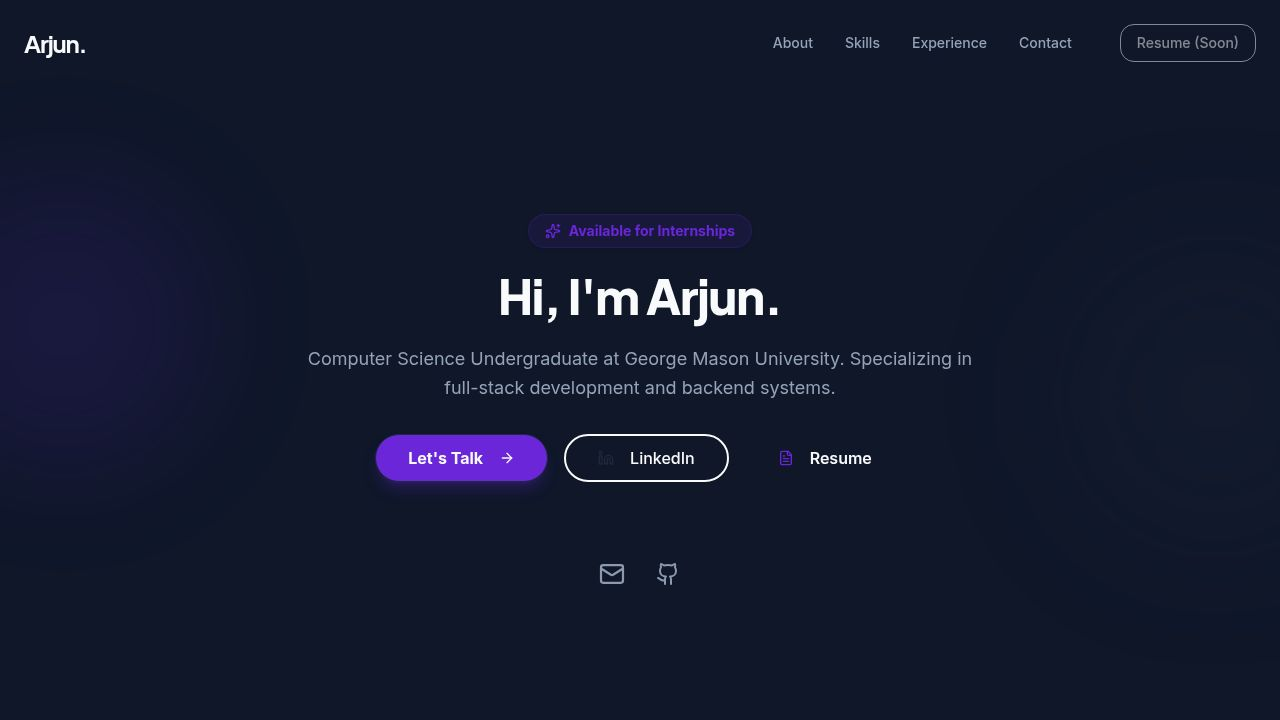
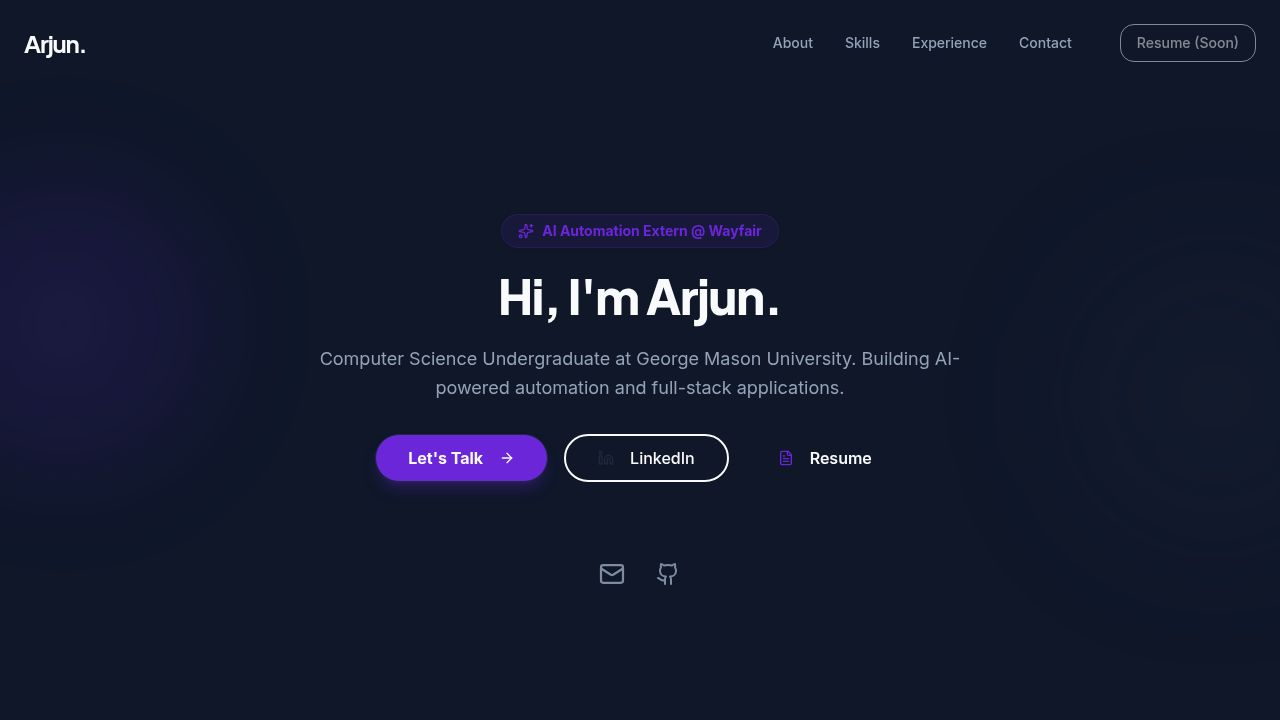
Update portfolio with new resume information and enhanced project details
Update client-side components to reflect new resume details, including experience, skills, and projects. Added GitHub link to contact section and updated hero and about sections.

Replit-Commit-Author: Agent
Replit-Commit-Session-Id: 9fe26823-d4da-4c3f-8fee-0e714eb8cfe9
Replit-Commit-Checkpoint-Type: full_checkpoint
Replit-Commit-Event-Id: a8f7fe2c-b568-427f-ad0e-911fc0c28663
Replit-Commit-Screenshot-Url: https://storage.googleapis.com/screenshot-production-us-central1/133d2532-96fa-4d6e-b4c1-6935cb228fff/9fe26823-d4da-4c3f-8fee-0e714eb8cfe9/JFeoRPG
Replit-Helium-Checkpoint-Created: true

Changed region(s): [[0.25, 0.4889, 0.75, 0.55], [0.4062, 0.3056, 0.5938, 0.3361]]

diff --git a/client/src/components/sections/experience.tsx b/client/src/components/sections/experience.tsx
@@ -2,6 +2,33 @@ import { motion } from "framer-motion";
 import { Card, CardContent, CardHeader, CardTitle } from "@/components/ui/card";
 import { Calendar, MapPin } from "lucide-react";
 
+const experiences = [
+  {
+    title: "AI Automation & Analytics Extern",
+    company: "Wayfair",
+    location: "Remote",
+    period: "Jan 2026 – Present",
+    highlights: [
+      "Engineered Python-based automation pipelines to analyze market and competitor data, reducing manual research effort by 30%.",
+      "Implemented structured prompt reasoning techniques to decrease LLM response latency by 25%.",
+      "Built interactive dashboards to visualize AI-generated insights, expanding vendor risk data coverage by 65%.",
+      "Consolidated multi-source datasets into unified analytics pipelines, reducing reporting turnaround time by 25%.",
+      "Strengthened system reliability by implementing API validation and error handling, mitigating 11 potential vulnerabilities."
+    ]
+  },
+  {
+    title: "Academic Intern",
+    company: "VIT Chennai",
+    location: "Chennai, India",
+    period: "Jun 2022 – Dec 2023",
+    highlights: [
+      "Developed and tested 30+ Java programs applying object-oriented principles and clean coding practices.",
+      "Solved 20+ data structure and algorithm problems involving arrays, strings, hash maps, and recursion.",
+      "Optimized and debugged programs to improve correctness, performance, and maintainability under academic deadlines."
+    ]
+  }
+];
+
 export function Experience() {
   return (
     <section id="experience" className="py-24 bg-muted/30">
@@ -14,48 +41,45 @@ export function Experience() {
           className="text-center mb-16"
         >
           <h2 className="text-3xl font-heading font-bold mb-4">Experience</h2>
-          <p className="text-muted-foreground">My professional and academic journey so far.</p>
+          <p className="text-muted-foreground">My professional journey so far.</p>
         </motion.div>
 
-        <div className="max-w-3xl mx-auto">
-          <motion.div
-            initial={{ opacity: 0, x: -20 }}
-            whileInView={{ opacity: 1, x: 0 }}
-            viewport={{ once: true }}
-            transition={{ duration: 0.5 }}
-          >
-            <Card className="border-l-4 border-l-primary shadow-sm">
-              <CardHeader>
-                <div className="flex flex-col md:flex-row md:items-center justify-between gap-2 mb-2">
-                  <CardTitle className="text-xl font-bold text-primary">Academic Intern</CardTitle>
-                  <div className="flex items-center text-sm text-muted-foreground bg-background px-3 py-1 rounded-full border border-border w-fit">
-                    <Calendar className="w-3 h-3 mr-2" />
-                    <span>Jun 2022 – Dec 2023</span>
+        <div className="max-w-4xl mx-auto space-y-8">
+          {experiences.map((exp, index) => (
+            <motion.div
+              key={exp.title}
+              initial={{ opacity: 0, x: -20 }}
+              whileInView={{ opacity: 1, x: 0 }}
+              viewport={{ once: true }}
+              transition={{ duration: 0.5, delay: index * 0.1 }}
+            >
+              <Card className="border-l-4 border-l-primary shadow-sm">
+                <CardHeader>
+                  <div className="flex flex-col md:flex-row md:items-center justify-between gap-2 mb-2">
+                    <CardTitle className="text-xl font-bold text-primary">{exp.title}</CardTitle>
+                    <div className="flex items-center text-sm text-muted-foreground bg-background px-3 py-1 rounded-full border border-border w-fit">
+                      <Calendar className="w-3 h-3 mr-2" />
+                      <span>{exp.period}</span>
+                    </div>
                   </div>
-                </div>
-                <div className="flex items-center text-muted-foreground font-medium">
-                  <span className="text-foreground">VIT Chennai</span>
-                  <span className="mx-2">•</span>
-                  <span className="flex items-center text-sm">
-                    <MapPin className="w-3 h-3 mr-1" /> Chennai, India
-                  </span>
-                </div>
-              </CardHeader>
-              <CardContent>
-                <ul className="list-disc pl-5 space-y-2 text-muted-foreground">
-                  <li>
-                    Assisted in coursework related to <strong className="text-foreground font-medium">Object-Oriented Programming (OOP)</strong> and <strong className="text-foreground font-medium">Data Structures & Algorithms (DSA)</strong>.
-                  </li>
-                  <li>
-                    Gained hands-on experience with <strong className="text-foreground font-medium">Java</strong> development and software engineering principles.
-                  </li>
-                  <li>
-                    Collaborated with faculty and peers to solve complex algorithmic problems and improve code efficiency.
-                  </li>
-                </ul>
-              </CardContent>
-            </Card>
-          </motion.div>
+                  <div className="flex items-center text-muted-foreground font-medium">
+                    <span className="text-foreground">{exp.company}</span>
+                    <span className="mx-2">•</span>
+                    <span className="flex items-center text-sm">
+                      <MapPin className="w-3 h-3 mr-1" /> {exp.location}
+                    </span>
+                  </div>
+                </CardHeader>
+                <CardContent>
+                  <ul className="list-disc pl-5 space-y-2 text-muted-foreground">
+                    {exp.highlights.map((highlight, i) => (
+                      <li key={i}>{highlight}</li>
+                    ))}
+                  </ul>
+                </CardContent>
+              </Card>
+            </motion.div>
+          ))}
         </div>
       </div>
     </section>

diff --git a/client/src/components/sections/projects.tsx b/client/src/components/sections/projects.tsx
@@ -1,26 +1,23 @@
 import { motion } from "framer-motion";
-import { FolderGit2, ExternalLink } from "lucide-react";
+import { FolderGit2 } from "lucide-react";
 import { Card, CardContent, CardHeader, CardTitle, CardDescription } from "@/components/ui/card";
 import { Badge } from "@/components/ui/badge";
 
 const projects = [
   {
     title: "Internship & Job Application Tracker",
-    description: "Backend-focused web application to manage and track internship applications. Developed 8+ RESTful APIs using Node.js and Express.",
-    tech: ["Node.js", "Express", "PostgreSQL", "REST APIs"],
-    period: "Jan 2025 – Present"
+    description: "Developed 7 REST API endpoints using Python and Django REST Framework. Designed normalized relational schemas and integrated 5 data sources into a unified data store, reducing report generation time by 25%.",
+    tech: ["Python", "Django REST", "PostgreSQL", "REST APIs"],
   },
   {
-    title: "Student Course & Assignment Management",
-    description: "Full-stack web application to manage academic deadlines. Implemented responsive UIs using React and Tailwind.",
-    tech: ["React", "Tailwind CSS", "Node.js", "Express"],
-    period: "Feb 2025"
+    title: "AI Resume Evaluation Tool",
+    description: "Automated resume evaluation workflows using Python and LLM APIs. Reduced manual resume review time by 30% through structured scoring and rule-based evaluation with strict input validation.",
+    tech: ["Python", "LLM APIs", "Prompt Engineering", "Automation"],
   },
   {
-    title: "AI-Powered Resume Feedback Tool",
-    description: "Analyzes resume content and generates structured feedback using OpenAI API. Designed backend endpoints for user input processing.",
-    tech: ["OpenAI API", "Node.js", "React", "API Design"],
-    period: "Mar 2025"
+    title: "Document Question Answering System",
+    description: "Designed a document-based Q&A system using vector similarity search and LLM-generated responses across 850+ documents. Reduced query latency by 150ms through modular architecture.",
+    tech: ["Python", "Vector Search", "LLM", "NLP"],
   }
 ];
 
@@ -52,10 +49,9 @@ export function Projects() {
                 <CardHeader>
                   <div className="flex justify-between items-start mb-2">
                     <FolderGit2 className="w-8 h-8 text-primary opacity-80" />
-                    <span className="text-xs text-muted-foreground font-mono">{project.period}</span>
                   </div>
                   <CardTitle className="group-hover:text-primary transition-colors">{project.title}</CardTitle>
-                  <CardDescription className="line-clamp-3 mt-2">{project.description}</CardDescription>
+                  <CardDescription className="line-clamp-4 mt-2">{project.description}</CardDescription>
                 </CardHeader>
                 <CardContent>
                   <div className="flex flex-wrap gap-2 mt-auto">

diff --git a/client/src/components/sections/skills.tsx b/client/src/components/sections/skills.tsx
@@ -1,38 +1,38 @@
 import { motion } from "framer-motion";
 import { Badge } from "@/components/ui/badge";
 import { Card, CardContent, CardHeader, CardTitle } from "@/components/ui/card";
-import { Code2, Database, Layout, Server, Terminal, Wrench } from "lucide-react";
+import { Code2, Database, Layout, Server, Terminal, Wrench, Brain } from "lucide-react";
 
 const skillCategories = [
   {
     title: "Languages",
     icon: <Code2 className="w-5 h-5 text-primary" />,
-    skills: ["JavaScript (ES6+)", "TypeScript", "Java", "SQL", "HTML5", "CSS3"],
+    skills: ["Python", "Java", "JavaScript", "SQL"],
   },
   {
     title: "Frontend",
     icon: <Layout className="w-5 h-5 text-primary" />,
-    skills: ["React", "Tailwind CSS", "Next.js (Learning)", "Responsive Design"],
+    skills: ["React", "HTML", "CSS", "Responsive Design"],
   },
   {
     title: "Backend",
     icon: <Server className="w-5 h-5 text-primary" />,
-    skills: ["Node.js", "Express", "RESTful APIs", "JWT Auth"],
+    skills: ["REST APIs", "Django REST Framework", "FastAPI", "Microservices"],
   },
   {
     title: "Databases",
     icon: <Database className="w-5 h-5 text-primary" />,
-    skills: ["PostgreSQL", "MongoDB", "Mongoose"],
+    skills: ["PostgreSQL", "Relational Schema Design"],
   },
   {
-    title: "Tools & DevOps",
+    title: "Tools & Platforms",
     icon: <Terminal className="w-5 h-5 text-primary" />,
-    skills: ["Git", "GitHub", "Docker (Basics)", "AWS (Fundamentals)", "Postman", "VS Code"],
+    skills: ["Git", "GitHub", "Linux"],
   },
   {
-    title: "Concepts",
-    icon: <Wrench className="w-5 h-5 text-primary" />,
-    skills: ["Data Structures", "Algorithms", "OOP", "SDLC", "Agile"],
+    title: "AI & Concepts",
+    icon: <Brain className="w-5 h-5 text-primary" />,
+    skills: ["LLM APIs", "Prompt Engineering", "AI-Assisted Dev", "OOP", "Data Structures", "Algorithms"],
   },
 ];
 

diff --git a/client/src/components/sections/hero.tsx b/client/src/components/sections/hero.tsx
@@ -22,14 +22,14 @@ export function Hero() {
           >
             <span className="inline-flex items-center gap-2 py-1.5 px-4 rounded-full bg-primary/10 text-primary text-sm font-bold mb-6 border border-primary/20 shadow-sm">
               <Sparkles className="w-4 h-4" />
-              Available for Internships
+              AI Automation Extern @ Wayfair
             </span>
             <h1 className="text-4xl md:text-5xl font-heading font-extrabold tracking-tight text-foreground mb-6">
               Hi, I'm Arjun.
             </h1>
             <p className="text-base md:text-lg text-muted-foreground leading-relaxed max-w-2xl mx-auto">
               Computer Science Undergraduate at George Mason University.
-              Specializing in full-stack development and backend systems.
+              Building AI-powered automation and full-stack applications.
             </p>
           </motion.div>
 
@@ -62,11 +62,11 @@ export function Hero() {
             transition={{ duration: 0.5, delay: 0.4 }}
             className="pt-12 flex justify-center gap-8 text-muted-foreground"
           >
-             <a href="mailto:msa642884@gmail.com" className="hover:text-primary transition-all scale-110 hover:scale-125">
+             <a href="mailto:msa64288@gmail.com" className="hover:text-primary transition-all scale-110 hover:scale-125">
                <Mail className="h-6 w-6" />
                <span className="sr-only">Email</span>
              </a>
-             <a href="https://github.com" target="_blank" rel="noopener noreferrer" className="hover:text-foreground transition-all">
+             <a href="https://github.com/msa123-tech" target="_blank" rel="noopener noreferrer" className="hover:text-foreground transition-all hover:scale-125">
                <Github className="h-6 w-6" />
                <span className="sr-only">GitHub</span>
              </a>

diff --git a/client/src/components/sections/about.tsx b/client/src/components/sections/about.tsx
@@ -15,12 +15,11 @@ export function About() {
           
           <div className="prose prose-lg dark:prose-invert mx-auto text-muted-foreground leading-relaxed text-center">
             <p className="mb-6">
-              I am a driven Computer Science undergraduate at George Mason University (Class of 2026) based in Fairfax, VA. 
-              My journey in technology began with a fascination for how software shapes our world, leading me to explore full-stack development.
+              I am a Computer Science undergraduate at George Mason University (Expected Dec 2026) based in Fairfax, VA. 
+              Currently working as an AI Automation & Analytics Extern at Wayfair, where I build Python-based automation pipelines and AI-driven analytics solutions.
             </p>
             <p>
-              Previously, I gained valuable experience as an Academic Intern at VIT Chennai, where I honed my skills in Java, Object-Oriented Programming, and Data Structures. 
-              I am passionate about building efficient, scalable applications and am currently seeking opportunities to apply my skills in a challenging environment.
+              My expertise spans full-stack development, REST APIs, and AI integration. I'm passionate about leveraging LLMs, prompt engineering, and automation to solve complex business problems efficiently.
             </p>
           </div>
         </motion.div>

diff --git a/client/src/components/sections/contact.tsx b/client/src/components/sections/contact.tsx
@@ -36,8 +36,8 @@ export function Contact() {
                       <Mail className="w-6 h-6 text-primary mt-1" />
                       <div>
                         <p className="font-medium">Email</p>
-                        <a href="mailto:msa642884@gmail.com" className="text-muted-foreground hover:text-primary transition-colors">
-                          msa642884@gmail.com
+                        <a href="mailto:msa64288@gmail.com" className="text-muted-foreground hover:text-primary transition-colors">
+                          msa64288@gmail.com
                         </a>
                       </div>
                     </div>
@@ -66,8 +66,10 @@ export function Contact() {
                           <Linkedin className="w-5 h-5" />
                         </a>
                       </Button>
-                      <Button size="icon" variant="outline" disabled>
-                        <Github className="w-5 h-5" />
+                      <Button size="icon" variant="outline" asChild>
+                        <a href="https://github.com/msa123-tech" target="_blank" rel="noopener noreferrer">
+                          <Github className="w-5 h-5" />
+                        </a>
                       </Button>
                     </div>
                   </div>
